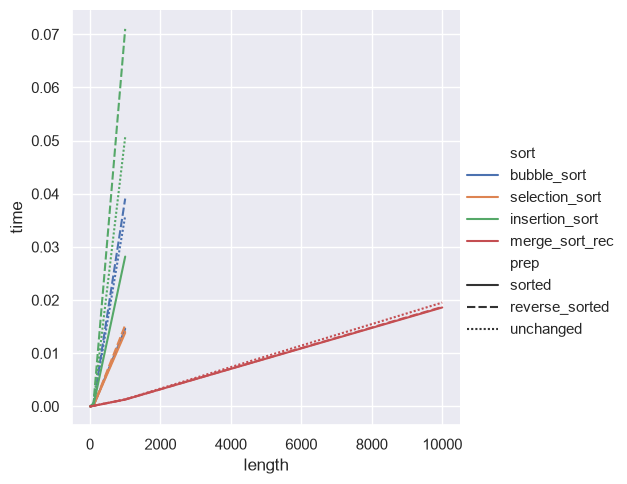
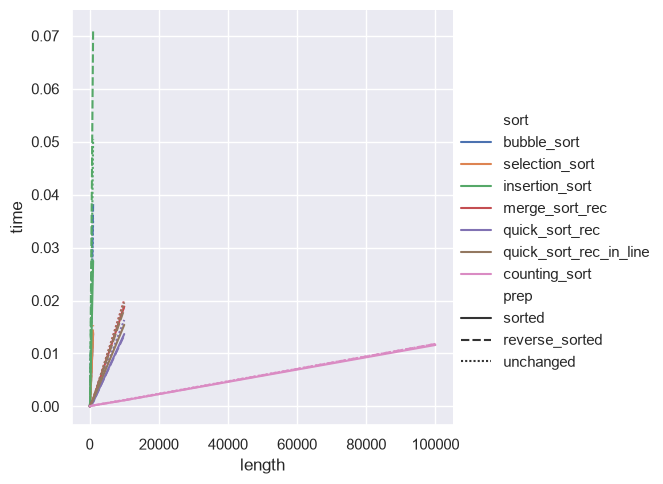
Project 1

diff --git a/Project1/sorting.py b/Project1/sorting.py
@@ -133,7 +133,7 @@ def quick_sort_rec_in_line(l, start=0, end=None):
       end = len(l)-1
    if len(l) == 0 | end-start+1 == 0:
       return []
-   pivot_index = (end-start)//2 + start
+   pivot_index = random.randint(start, end)
    pivot = l[pivot_index]
    if end-start+1 == 2:
       if l[start] > l[end]:
@@ -171,7 +171,24 @@ def quick_sort_rec_in_line(l, start=0, end=None):
       
 
 def counting_sort(l):
-   return l
+   if len(l) == 0:
+      return l
+   min_value = l[0]
+   max_value = l[0]
+   for i in range(len(l)):
+      if min_value > l[i]:
+         min_value = l[i]
+      if max_value < l[i]:
+         max_value = l[i]
+   range_of_array = max_value - min_value
+   count_array = [0] * (range_of_array + 1)
+   for i in range(len(l)):
+      count_array[l[i]-min_value] += 1
+   l.clear()
+   for i in range(len(count_array)):
+      if count_array[i] != 0:
+         for j in range(count_array[i]):
+            l.append(i + min_value)
 
 
 
@@ -209,7 +226,7 @@ def aggregated_time_sort(lists, length, prep, sort, repetitions, timeout):
 
 import pandas as pd
 
-sorts = [bubble_sort, selection_sort, insertion_sort, merge_sort_rec, quick_sort_rec, quick_sort_rec_in_line]
+sorts = [bubble_sort, selection_sort, insertion_sort, merge_sort_rec, quick_sort_rec, quick_sort_rec_in_line, counting_sort]
 if __name__ == '__main__':
    random.seed(4567)
    preps = [sorted, reverse_sorted, unchanged]
